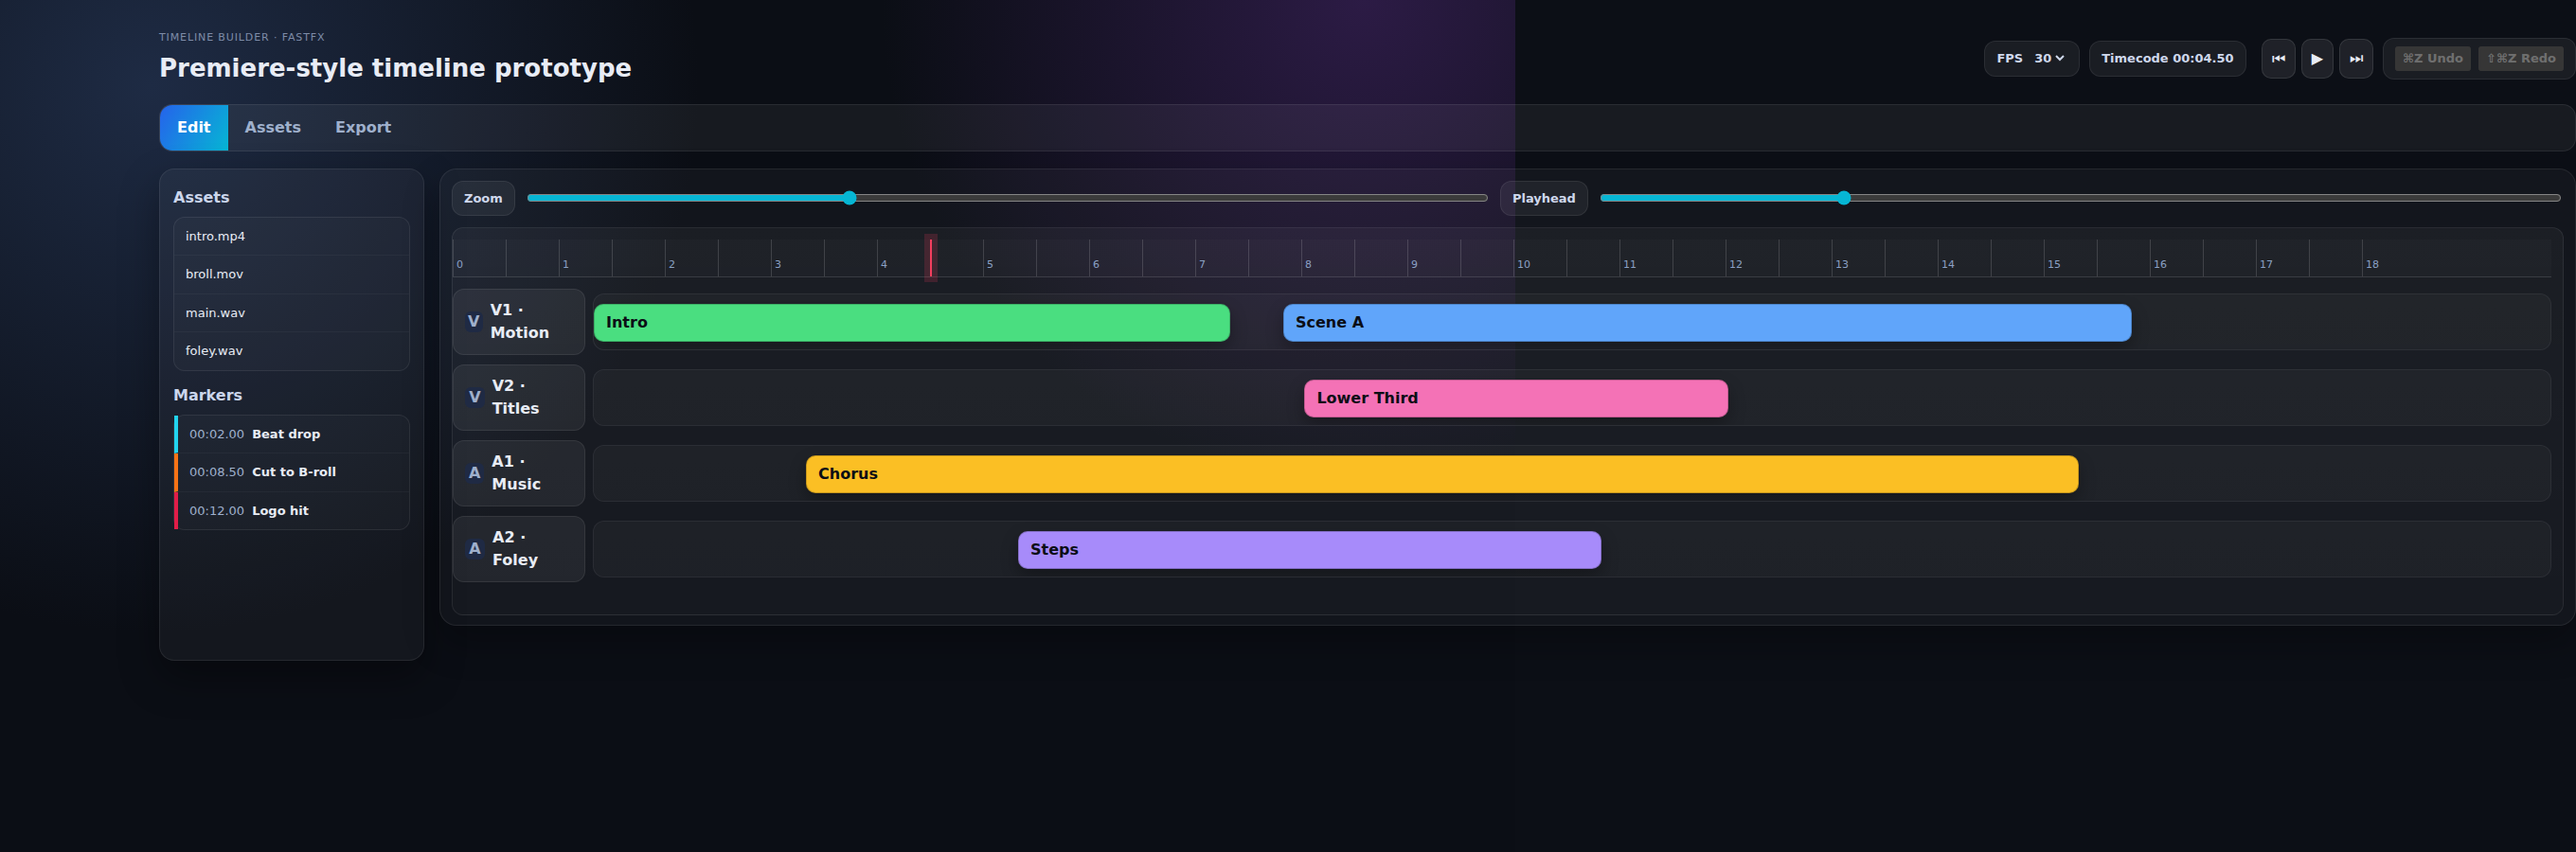
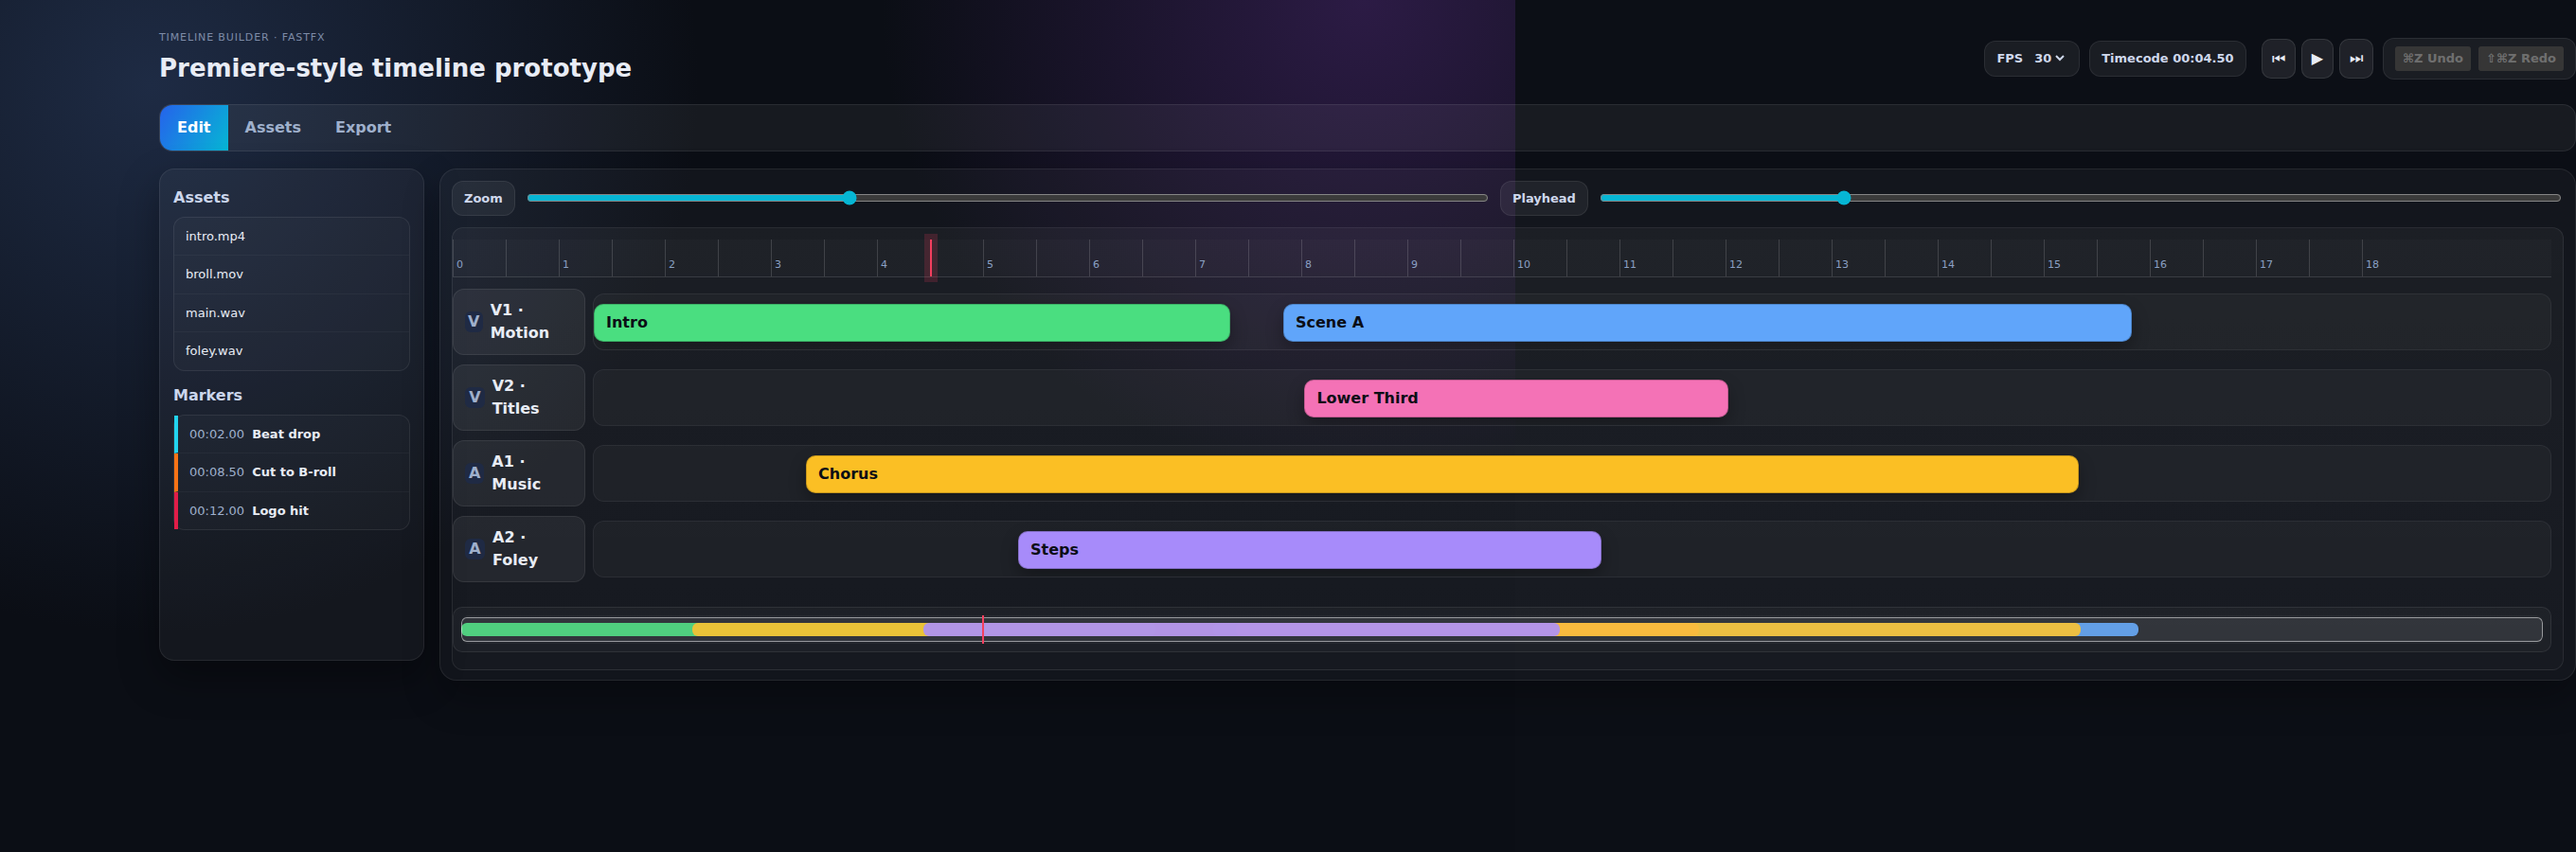
feat(web): snap, overlap guard, minimap, and transport controls

Changed region(s): [[0.1562, 0.7156, 1.0, 0.7778]]

diff --git a/web/src/App.tsx b/web/src/App.tsx
@@ -43,6 +43,9 @@ const DEFAULT_MARKERS: Marker[] = [
 ]
 
 const TOTAL_DURATION = 18
+const GRID_STEP = 0.25
+const SNAP_THRESHOLD_SEC = 0.12
+const MIN_CLIP = 0.2
 
 const STORAGE_KEY = 'timeline-builder-project-v1'
 
@@ -104,6 +107,7 @@ function App() {
   const [activeTab, setActiveTab] = useState<'edit' | 'assets' | 'export'>('edit')
   const [playhead, setPlayhead] = useState(4.5)
   const [zoom, setZoom] = useState(1.4) // multiplier for px/sec
+  const [playing, setPlaying] = useState(false)
   const { state: project, set: setProject, undo, redo, canUndo, canRedo, pushCheckpoint } = useHistoryState<ProjectState>(
     { tracks: DEFAULT_TRACKS, clips: DEFAULT_CLIPS, markers: DEFAULT_MARKERS }
   )
@@ -111,6 +115,8 @@ function App() {
   const [selectedClip, setSelectedClip] = useState<string | null>(null)
 
   const timelineRef = useRef<HTMLDivElement | null>(null)
+  const [viewWindow, setViewWindow] = useState({ start: 0, duration: 8 })
+  const rafRef = useRef<number | null>(null)
 
   type DragInfo = {
     id: string
@@ -145,7 +151,35 @@ function App() {
     localStorage.setItem(STORAGE_KEY, payload)
   }, [project])
 
-  // Keyboard nudging for selected clip
+  // playback loop
+  useEffect(() => {
+    if (!playing) {
+      if (rafRef.current) cancelAnimationFrame(rafRef.current)
+      rafRef.current = null
+      return
+    }
+    let lastTs: number | null = null
+    const tick = (ts: number) => {
+      if (lastTs === null) lastTs = ts
+      const delta = (ts - lastTs) / 1000
+      lastTs = ts
+      setPlayhead(prev => {
+        const next = clampTime(prev + delta)
+        if (next >= TOTAL_DURATION) {
+          setPlaying(false)
+          return TOTAL_DURATION
+        }
+        return next
+      })
+      rafRef.current = requestAnimationFrame(tick)
+    }
+    rafRef.current = requestAnimationFrame(tick)
+    return () => {
+      if (rafRef.current) cancelAnimationFrame(rafRef.current)
+    }
+  }, [playing])
+
+  // Keyboard nudging for selected clip + undo/redo
   useEffect(() => {
     const onKey = (e: KeyboardEvent) => {
       if (!selectedClip) return
@@ -158,6 +192,10 @@ function App() {
             : c)
         }), { push: false })
         pushCheckpoint()
+      }
+      if (e.code === 'Space') {
+        e.preventDefault()
+        setPlaying(p => !p)
       }
       if (e.metaKey || e.ctrlKey) {
         if (e.key.toLowerCase() === 'z' && !e.shiftKey) undo()
@@ -180,6 +218,30 @@ function App() {
 
   const clampTime = (value: number) => Math.min(Math.max(value, 0), TOTAL_DURATION)
   const handleScrub = (value: number) => setPlayhead(clampTime(value))
+
+  const collectSnapPoints = (trackId: string, excludeId?: string) => {
+    const pts = new Set<number>()
+    markers.forEach(m => pts.add(m.time))
+    clips.filter(c => c.track === trackId && c.id !== excludeId).forEach(c => {
+      pts.add(c.start)
+      pts.add(c.start + c.duration)
+    })
+    for (let t = 0; t <= TOTAL_DURATION; t += GRID_STEP) pts.add(Number(t.toFixed(3)))
+    return Array.from(pts.values())
+  }
+
+  const snapTime = (candidate: number, snaps: number[]) => {
+    let best = candidate
+    let minDelta = SNAP_THRESHOLD_SEC
+    for (const s of snaps) {
+      const d = Math.abs(candidate - s)
+      if (d < minDelta) {
+        minDelta = d
+        best = s
+      }
+    }
+    return best
+  }
 
   const addMarker = () => {
     const palette = ['#22d3ee', '#f97316', '#e11d48', '#a78bfa', '#22c55e']
@@ -218,6 +280,20 @@ function App() {
     }).catch(err => console.error('Import failed', err))
   }
 
+  // track scroll -> minimap view window
+  useEffect(() => {
+    const scroller = timelineRef.current?.parentElement
+    if (!scroller) return
+    const onScroll = () => {
+      const start = (scroller.scrollLeft || 0) / pxPerSec
+      const duration = (scroller.clientWidth || 1) / pxPerSec
+      setViewWindow({ start: clampTime(start), duration: Math.min(TOTAL_DURATION, duration) })
+    }
+    onScroll()
+    scroller.addEventListener('scroll', onScroll)
+    return () => scroller.removeEventListener('scroll', onScroll)
+  }, [pxPerSec])
+
   const startDrag = (e: React.MouseEvent<HTMLDivElement>, clip: Clip) => {
     const rect = e.currentTarget.getBoundingClientRect()
     const offsetX = e.clientX - rect.left
@@ -242,20 +318,49 @@ function App() {
       if (!dragRef.current) return
       const { id, mode, startX, origStart, origDuration } = dragRef.current
       const deltaSec = (e.clientX - startX) / pxPerSec
-      const minDur = 0.2
+      const current = project.clips.find(c => c.id === id)
+      if (!current) return
+      const trackId = current.track
+      const snaps = collectSnapPoints(trackId, id)
+      const siblings = project.clips
+        .filter(c => c.track === trackId && c.id !== id)
+        .sort((a, b) => a.start - b.start)
+      const minDur = MIN_CLIP
       setProject(prev => ({
         ...prev,
         clips: prev.clips.map(c => {
           if (c.id !== id) return c
           if (mode === 'move') {
-            return { ...c, start: clampTime(origStart + deltaSec) }
+            let candidate = clampTime(origStart + deltaSec)
+            candidate = snapTime(candidate, snaps)
+            const prevSibling = siblings.filter(s => s.start + s.duration <= candidate).at(-1)
+            const nextSibling = siblings.find(s => s.start >= candidate)
+            if (prevSibling && candidate < prevSibling.start + prevSibling.duration) {
+              candidate = prevSibling.start + prevSibling.duration + 0.01
+            }
+            if (nextSibling && candidate + c.duration > nextSibling.start) {
+              candidate = Math.max(0, nextSibling.start - c.duration - 0.01)
+            }
+            candidate = clampTime(candidate)
+            return { ...c, start: candidate }
           }
           if (mode === 'trim-start') {
             const newStart = clampTime(origStart + deltaSec)
-            const newDur = Math.max(minDur, origDuration - (newStart - origStart))
-            return { ...c, start: newStart, duration: newDur }
+            const snappedStart = snapTime(newStart, snaps)
+            const newDur = Math.max(minDur, origDuration - (snappedStart - origStart))
+            const prevSibling = siblings.filter(s => s.start + s.duration <= origStart).at(-1)
+            const boundedStart = prevSibling ? Math.max(snappedStart, prevSibling.start + prevSibling.duration + 0.01) : snappedStart
+            return { ...c, start: clampTime(boundedStart), duration: Math.max(minDur, newDur) }
           }
-          const newDur = Math.max(minDur, origDuration + deltaSec)
+          let newDur = Math.max(minDur, origDuration + deltaSec)
+          const nextSibling = siblings.find(s => s.start >= origStart)
+          if (nextSibling) {
+            newDur = Math.min(newDur, nextSibling.start - origStart - 0.01)
+          }
+          newDur = Math.min(newDur, TOTAL_DURATION - origStart)
+          newDur = Math.max(minDur, newDur)
+          const snappedEnd = snapTime(origStart + newDur, snaps)
+          newDur = Math.max(minDur, snappedEnd - origStart)
           return { ...c, duration: newDur }
         })
       }), { push: false })
@@ -274,7 +379,7 @@ function App() {
       window.removeEventListener('mousemove', onMove)
       window.removeEventListener('mouseup', onUp)
     }
-  }, [pxPerSec, setProject, pushCheckpoint])
+  }, [pxPerSec, setProject, pushCheckpoint, project.clips])
 
   return (
     <div className="app">
@@ -294,9 +399,9 @@ function App() {
           </label>
           <div className="pill">Timecode {formatTime(playhead)}</div>
           <div className="transport">
-            <button>⏮</button>
-            <button>▶</button>
-            <button>⏭</button>
+            <button onClick={() => setPlayhead(0)}>⏮</button>
+            <button onClick={() => setPlaying(p => !p)}>{playing ? '⏸' : '▶'}</button>
+            <button onClick={() => setPlayhead(TOTAL_DURATION)}>⏭</button>
           </div>
           <div className="pill">
             <button disabled={!canUndo} onClick={undo}>⌘Z Undo</button>
@@ -398,6 +503,35 @@ function App() {
                     </div>
                   </div>
                 ))}
+              </div>
+              <div className="minimap" onClick={(e) => {
+                const rect = e.currentTarget.getBoundingClientRect()
+                const ratio = (e.clientX - rect.left) / rect.width
+                const target = clampTime(ratio * TOTAL_DURATION)
+                setPlayhead(target)
+                if (timelineRef.current) {
+                  const viewport = timelineRef.current.parentElement?.clientWidth || 0
+                  const scrollTarget = Math.max(0, target * pxPerSec - viewport / 2)
+                  timelineRef.current.parentElement?.scrollTo({ left: scrollTarget, behavior: 'smooth' })
+                }
+              }}>
+                <div className="minimap-track">
+                  {clips.map(c => (
+                    <div
+                      key={c.id}
+                      className="mini-clip"
+                      style={{ left: `${(c.start / TOTAL_DURATION) * 100}%`, width: `${(c.duration / TOTAL_DURATION) * 100}%`, background: c.color }}
+                    />
+                  ))}
+                  <div
+                    className="mini-view"
+                    style={{
+                      left: `${(viewWindow.start / TOTAL_DURATION) * 100}%`,
+                      width: `${(viewWindow.duration / TOTAL_DURATION) * 100}%`
+                    }}
+                  />
+                  <div className="mini-playhead" style={{ left: `${(playhead / TOTAL_DURATION) * 100}%` }} />
+                </div>
               </div>
             </div>
           </section>

diff --git a/web/src/App.css b/web/src/App.css
@@ -79,6 +79,8 @@ body {
   margin-left: 6px;
 }
 
+.transport button:disabled { opacity: 0.4; cursor: not-allowed; }
+
 .tabs {
   display: inline-flex;
   background: rgba(255, 255, 255, 0.05);
@@ -316,6 +318,48 @@ body {
 
 .clip::before { left: 0; cursor: w-resize; }
 .clip::after { right: 0; cursor: e-resize; }
+
+.minimap {
+  margin-top: 10px;
+  background: rgba(255, 255, 255, 0.03);
+  border: 1px solid rgba(255, 255, 255, 0.08);
+  border-radius: 10px;
+  padding: 8px;
+  cursor: pointer;
+}
+
+.minimap-track {
+  position: relative;
+  height: 30px;
+  background: rgba(255, 255, 255, 0.04);
+  border-radius: 8px;
+  overflow: hidden;
+}
+
+.mini-clip {
+  position: absolute;
+  top: 8px;
+  height: 14px;
+  border-radius: 6px;
+  opacity: 0.9;
+}
+
+.mini-view {
+  position: absolute;
+  top: 2px;
+  height: 26px;
+  border: 1px solid rgba(255, 255, 255, 0.5);
+  border-radius: 6px;
+  background: rgba(255, 255, 255, 0.06);
+}
+
+.mini-playhead {
+  position: absolute;
+  top: 0;
+  width: 2px;
+  height: 30px;
+  background: #f43f5e;
+}
 
 .placeholder {
   padding: 24px;
